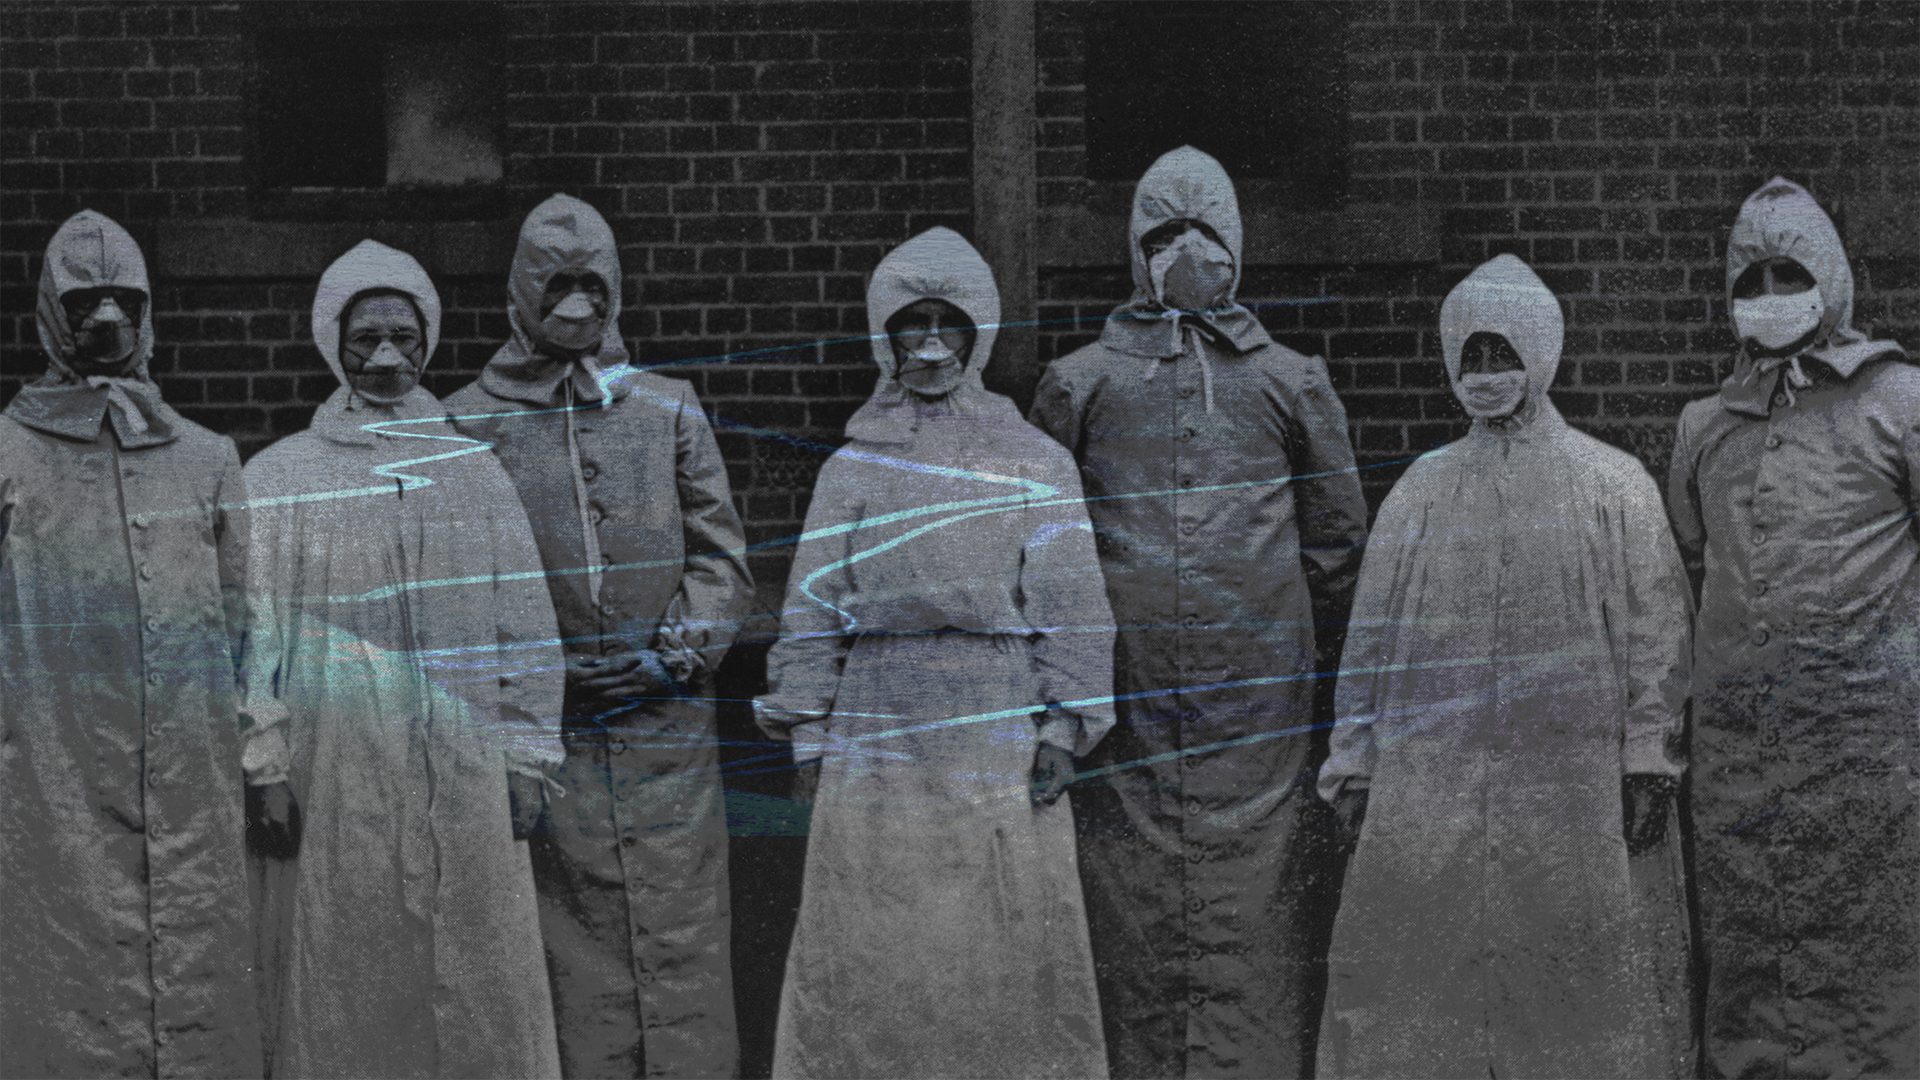
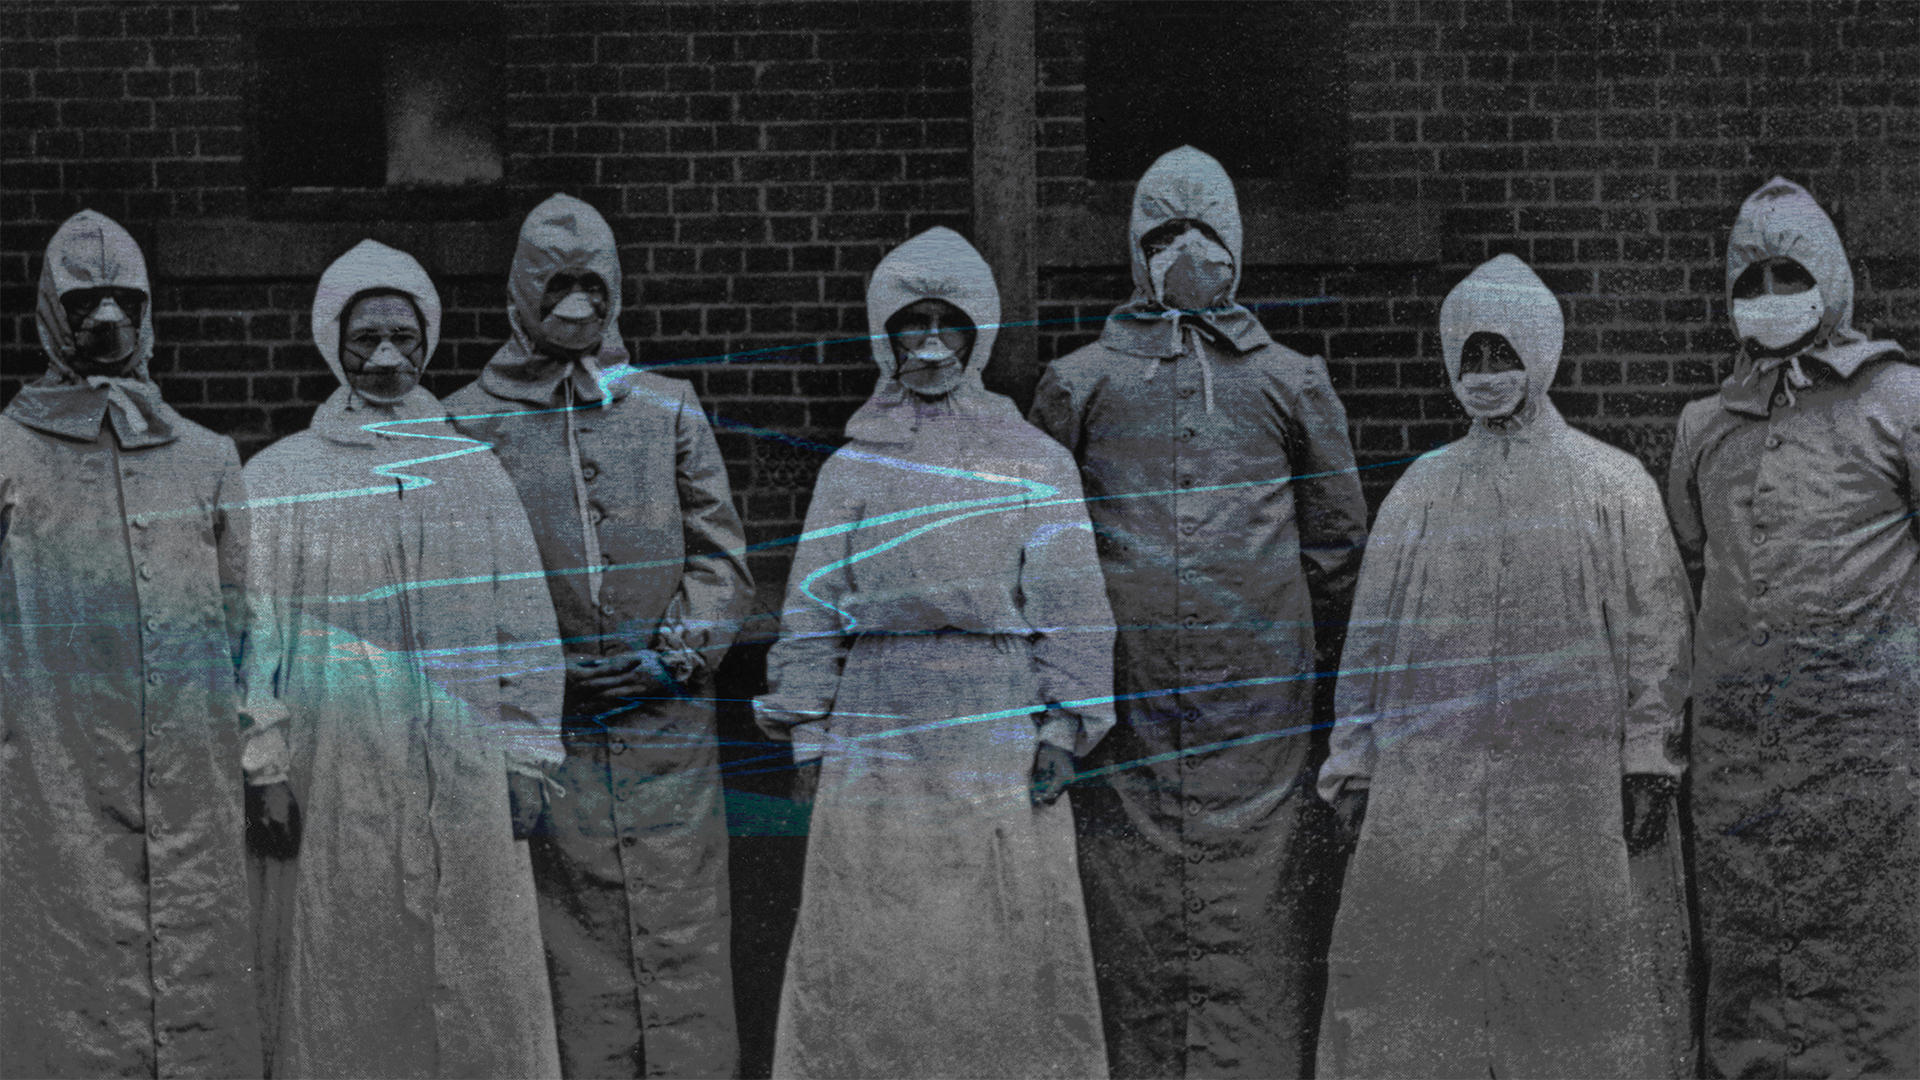
resize background image

diff --git a/content/about/index.md b/content/about/index.md
@@ -9,6 +9,6 @@ Om den här sidan
 
 Sidan är gjort som en del av kursen Design på Blekinge Tekniska Högskola och är gjord i ramverket Pico. Layouten är skriven i twig och stylingen är gjord i sass, uppdelad i flera moduler men fortfarande inte helt vettigt strukturerat/kategoriserat. Dessa är importerade 
 tillsammans med Font Awesome och normalize.css i style.scss som sedan kompileras
-till ett sammanhängande, minifierat css-dokument. Jag har också använt lite javascript, mest som en övning för mig själv, för att få någon slags funktionalitet på ikonerna från Font Awesome längst ner på varje sida.
+till ett sammanhängande, minifierat css-dokument. Jag har också använt lite javascript, mest som en övning för mig själv, för att få någon slags funktionalitet på ikonerna från Font Awesome längst ner på vissa sidor.
 
 För övrigt är all text inom citationstecken här på sidan från Nick Lands "Meltdown" från 1994, en tid när hans filosofi var aningen mer emancipatorisk än idag, för att uttrycka det milt. Chill Land pre Vill La(i)nd. Jag ursäktar detta slappa tilltag med att jag hellre lägger tid på att lära mig verktygen snarare än att skriva en massa innehåll att jobba med, utöver rapporterna. Åtminstone inledningsvis.
